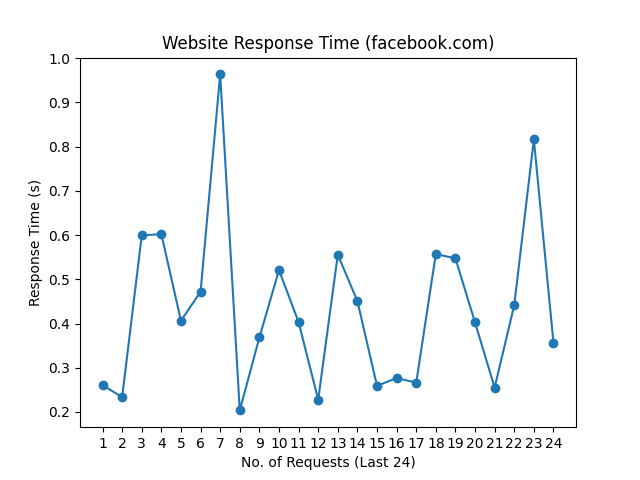
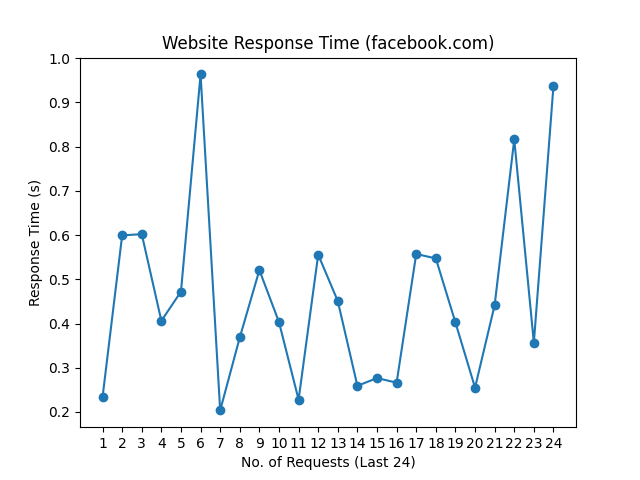
update README.md, history and graph

Changed region(s): [[0.1562, 0.125, 0.875, 0.875]]

diff --git a/README.md b/README.md
@@ -1,10 +1,10 @@
 # Web Monitoring
 
-Last Checked: 26/08/2024 08:18
+Last Checked: 27/08/2024 08:18
 
 | Website | Response Time (s) | Status | Avg Uptime (%) |
 |---------|-------------------|--------|----------------|
 | www.thiswebsiteisdown.net | 0 <br> <img src="graph/thiswebsiteisdown.net.png" alt="Graph" width="200" height="200">  | ❌ Down | 0.00 |
-| www.netflix.com | 0.769949 <br> <img src="graph/netflix.com.png" alt="Graph" width="200" height="200">  | ✅ Up | 100.00 |
-| www.google.com | 0.066445 <br> <img src="graph/google.com.png" alt="Graph" width="200" height="200">  | ✅ Up | 100.00 |
-| www.facebook.com | 0.356499 <br> <img src="graph/facebook.com.png" alt="Graph" width="200" height="200">  | ✅ Up | 100.00 |
+| www.netflix.com | 0.824343 <br> <img src="graph/netflix.com.png" alt="Graph" width="200" height="200">  | ✅ Up | 100.00 |
+| www.google.com | 0.065164 <br> <img src="graph/google.com.png" alt="Graph" width="200" height="200">  | ✅ Up | 100.00 |
+| www.facebook.com | 0.936933 <br> <img src="graph/facebook.com.png" alt="Graph" width="200" height="200">  | ✅ Up | 100.00 |
